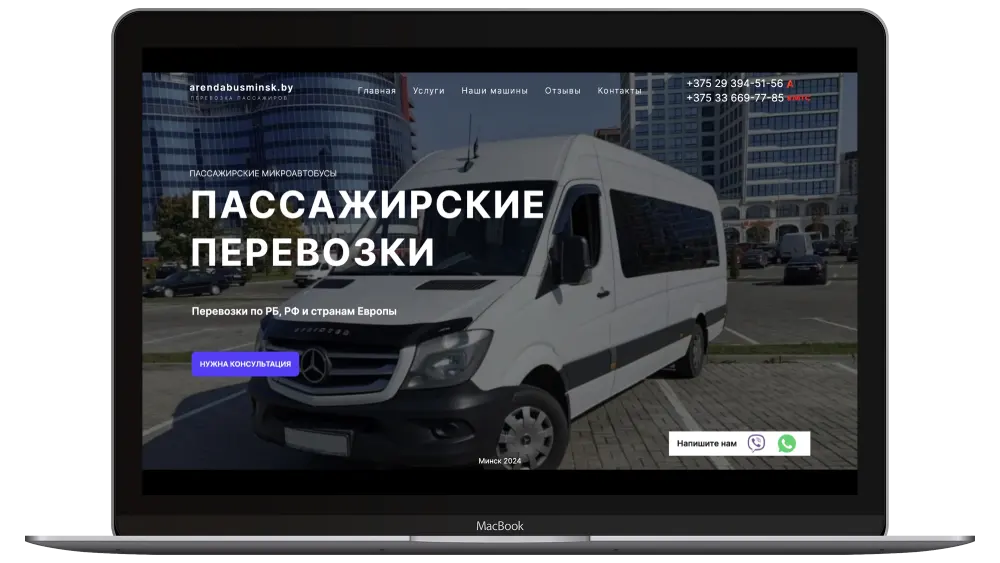
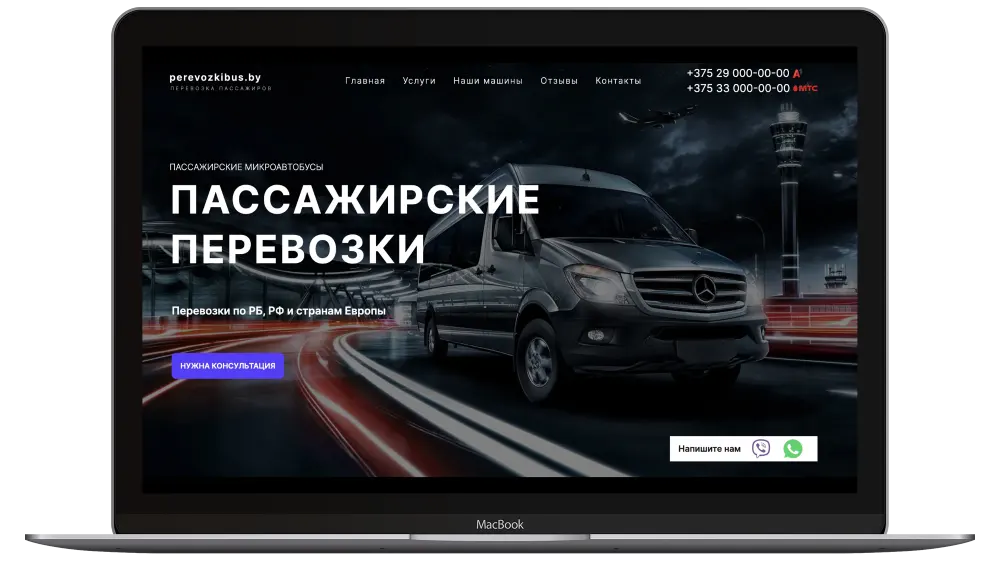
perevozki

diff --git a/constans/gotovye/dataGotovye.js b/constans/gotovye/dataGotovye.js
@@ -302,4 +302,13 @@ export const dataGotovye = [
 		price: '350',
 		link: 'https://car-service2024.vercel.app/'
 	 },
+	{
+		id: 25,
+		img: '/service/gotovie/26.webp',
+		alt: 'Готовый сайт Пассажирские перевозки',
+		title: 'Сайт Пассажирские перевозки',
+		content: `Получайте новых клиентов из Google и Яндекс. Приобретите готовый сайт СТО, чтобы привлечь больше внимания к вашему бизнесу. Наша команда разработает функциональный и стильный сайт, который поможет вам выделиться на фоне конкурентов. Мы учтем все ваши пожелания и предоставим вам готовый продукт, готовый к использованию. Увеличьте свою видимость в онлайне и привлекайте больше клиентов уже сегодня.`,
+		price: '350',
+		link: 'https://perevozkibus.vercel.app/'
+	 },
 ]

diff --git a/constans/portfolio/PortfolioData.js b/constans/portfolio/PortfolioData.js
@@ -874,7 +874,7 @@ export const dataPortfolio = [
 	{
 		id: 66,
 		title: 'perevozki-2024.vercel.app',
-		link: 'https://perevozki-2024.vercel.app/',
+		link: 'https://perevozkibus.vercel.app/',
 		image: '/portfolio/portfolioCard/perevozki-2024/1.webp',
 		alt: 'Сайт клиента Перевозки пассажиров, компании VI:TECH',
 		w: 1000,
